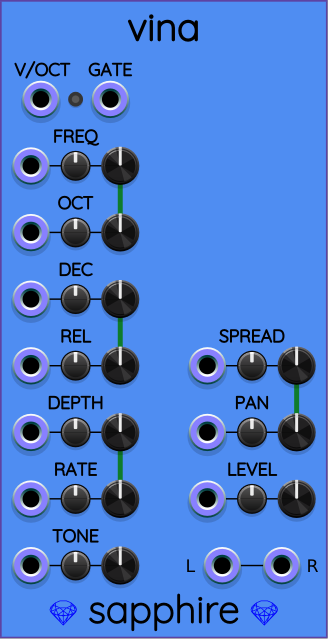
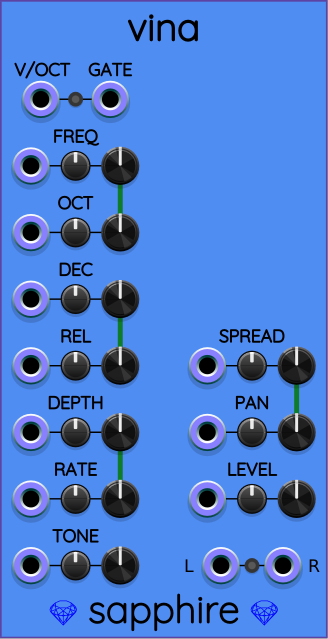
Vina: added button to toggle output LR mono/poly.

Changed region(s): [[0.6098, 0.8623, 0.9756, 0.9218], [0.5488, 0.8623, 0.5793, 0.892]]

diff --git a/src/vina_vcv.cpp b/src/vina_vcv.cpp
@@ -30,7 +30,7 @@ namespace Sapphire      // Indranīla (इन्द्रनील)
             SPREAD_ATTEN,
             TONE_PARAM,
             TONE_ATTEN,
-            _OBSOLETE_2_PARAM,
+            STEREO_BUTTON_PARAM,
             _OBSOLETE_3_PARAM,
             CHORUS_DEPTH_PARAM,
             CHORUS_DEPTH_ATTEN,
@@ -102,6 +102,12 @@ namespace Sapphire      // Indranīla (इन्द्रनील)
                     dwButton->setValue(1);
                 }
 
+                if (auto stereoButton = configButton(STEREO_BUTTON_PARAM))
+                {
+                    stereoButton->defaultValue = 1;
+                    stereoButton->setValue(1);
+                }
+
                 configParam(FREQ_PARAM, MinOctave, MaxOctave, 0, "Frequency", " Hz", 2, CenterFreqHz);
                 configAtten(FREQ_ATTEN, "Frequency");
                 configInput(FREQ_CV_INPUT, "Frequency CV");
@@ -169,8 +175,6 @@ namespace Sapphire      // Indranīla (इन्द्रनील)
                     channelInfo[c].activeWireIndex = c;
                     wire[c].assignedPolyChannel = c;
                 }
-
-                params[DYNAMIC_WIRE_BUTTON_PARAM].setValue(1);      // enable by default
             }
 
             json_t* dataToJson() override
@@ -189,6 +193,11 @@ namespace Sapphire      // Indranīla (इन्द्रनील)
                 return getParamQuantity(DYNAMIC_WIRE_BUTTON_PARAM)->getValue() > 0.5f;
             }
 
+            bool isPolyphonicStereoEnabled()
+            {
+                return getParamQuantity(STEREO_BUTTON_PARAM)->getValue() > 0.5f;
+            }
+
             bool needToPickNewWire(int c, bool trigger)
             {
                 // Do we have a currently assigned wire?
@@ -200,7 +209,7 @@ namespace Sapphire      // Indranīla (इन्द्रनील)
                 // Is the current wire still vibrating?
                 // If it is quiet, we can keep using it.
                 // Otherwise, we try to pick a different wire.
-                return isDynamicWireAssignmentEnabled() && trigger && !wire[wi].isQuiet();
+                return trigger && isDynamicWireAssignmentEnabled() && !wire[wi].isQuiet();
             }
 
             void makeChannelOwnWire(int c, int k)
@@ -257,8 +266,10 @@ namespace Sapphire      // Indranīla (इन्द्रनील)
             void process(const ProcessArgs& args) override
             {
                 numActiveChannels = numOutputChannels(INPUTS_LEN, 1);
-                outputs[AUDIO_LEFT_OUTPUT ].setChannels(numActiveChannels);
-                outputs[AUDIO_RIGHT_OUTPUT].setChannels(numActiveChannels);
+                const bool polyphonicOutput = isPolyphonicStereoEnabled();
+                const int numOutputChannels = polyphonicOutput ? numActiveChannels : 1;
+                outputs[AUDIO_LEFT_OUTPUT ].setChannels(numOutputChannels);
+                outputs[AUDIO_RIGHT_OUTPUT].setChannels(numOutputChannels);
                 float gateVoltage = 0;
                 float voctVoltage = 0;
                 float cvFreq = 0;
@@ -271,6 +282,8 @@ namespace Sapphire      // Indranīla (इन्द्रनील)
                 float cvTone = 0;
                 float cvChorusDepth = 0;
                 float cvChorusRate = 0;
+
+                VinaStereoFrame sum;
 
                 for (int c = 0; c < numActiveChannels; ++c)
                 {
@@ -327,8 +340,21 @@ namespace Sapphire      // Indranīla (इन्द्रनील)
                         w.setPitch(freq);     // must set pitch AFTER tone
 
                     VinaStereoFrame frame = updateWiresForChannel(c, args.sampleRate, gate, trigger);
-                    outputs[AUDIO_LEFT_OUTPUT ].setVoltage(frame.sample[0], c);
-                    outputs[AUDIO_RIGHT_OUTPUT].setVoltage(frame.sample[1], c);
+                    if (polyphonicOutput)
+                    {
+                        outputs[AUDIO_LEFT_OUTPUT ].setVoltage(frame.sample[0], c);
+                        outputs[AUDIO_RIGHT_OUTPUT].setVoltage(frame.sample[1], c);
+                    }
+                    else
+                    {
+                        sum += frame;
+                    }
+                }
+
+                if (!polyphonicOutput)
+                {
+                    outputs[AUDIO_LEFT_OUTPUT ].setVoltage(sum.sample[0], 0);
+                    outputs[AUDIO_RIGHT_OUTPUT].setVoltage(sum.sample[1], 0);
                 }
             }
         };
@@ -344,6 +370,16 @@ namespace Sapphire      // Indranīla (इन्द्रनील)
         };
 
 
+        struct StereoButton : SapphireTinyToggleButton
+        {
+            explicit StereoButton()
+            {
+                addFrame(Svg::load(asset::plugin(pluginInstance, "res/interval_button_0.svg")));
+                addFrame(Svg::load(asset::plugin(pluginInstance, "res/interval_button_1.svg")));
+            }
+        };
+
+
         struct VinaWidget : SapphireWidget
         {
             VinaModule* vinaModule{};
@@ -354,6 +390,7 @@ namespace Sapphire      // Indranīla (इन्द्रनील)
             {
                 setModule(module);
                 addDynamicWireButton();
+                addStereoButton();
                 addSapphireInput(GATE_INPUT, "gate_input");
                 addSapphireInput(VOCT_INPUT, "voct_input");
                 addSapphireOutput(AUDIO_LEFT_OUTPUT,  "audio_left_output");
@@ -374,6 +411,12 @@ namespace Sapphire      // Indranīla (इन्द्रनील)
             {
                 auto button = createParamCentered<DynamicWireButton>(Vec{}, vinaModule, DYNAMIC_WIRE_BUTTON_PARAM);
                 addSapphireParam(button, "dynamic_wire_button");
+            }
+
+            void addStereoButton()
+            {
+                auto button = createParamCentered<StereoButton>(Vec{}, vinaModule, STEREO_BUTTON_PARAM);
+                addSapphireParam(button, "stereo_button");
             }
 
             void appendContextMenu(Menu* menu) override
@@ -397,6 +440,12 @@ namespace Sapphire      // Indranīla (इन्द्रनील)
                         DYNAMIC_WIRE_BUTTON_PARAM,
                         "Single decaying note per channel (less CPU)",
                         "Multiple decaying notes per channel (more CPU)"
+                    );
+
+                    vinaModule->updateToggleButtonTooltip(
+                        STEREO_BUTTON_PARAM,
+                        "Monophonic output on L and R ports (unity mix)",
+                        "Polyphonic output on L and R ports"
                     );
                 }
             }

diff --git a/util/make_sapphire_svg.py b/util/make_sapphire_svg.py
@@ -2431,7 +2431,7 @@ def GenerateVinaPanel(cdict: ControlDict, name:str, slug:str, target:Target) -> 
         xmidRight = HP_WIDTH_MM*(leftWidthHp + middleHp + rightWidthHp/2)
         yFence = FencePost(20.0, 114.0, 8)
 
-        dxPortFromCenter = 6.0
+        dxPortFromCenter = 6.25
         dxVoctGate = 7.0
         dyArtwork = 10.0
         dxLabelFromCenter = dxPortFromCenter + dxHorizontalStereoLabels
@@ -2457,10 +2457,12 @@ def GenerateVinaPanel(cdict: ControlDict, name:str, slug:str, target:Target) -> 
             defs.append(Gradient(yVoctGate-dyArtwork, yVoctGate+dyArtwork, SAPPHIRE_MAGENTA_COLOR, SAPPHIRE_PANEL_COLOR, 'gradient_voct_gate'))
             pl.append(ControlGroupArt(name, 'voct_gate_art', panel, yVoctGate-dyArtwork, yVoctGate+dyArtwork, 'gradient_voct_gate'))
 
+
+        pl.append(HorizontalLinePath(xmidLeft - dxVoctGate, xmidLeft + dxVoctGate, yVoctGate))
+        controls.append(Component('dynamic_wire_button', xmidLeft, yVoctGate))
+
         controls.append(Component('voct_input', xmidLeft - dxVoctGate, yVoctGate))
         pl.append(CenteredControlTextPath(font, 'V/OCT', xmidLeft - dxVoctGate, yVoctGate - dyButtonText))
-
-        controls.append(Component('dynamic_wire_button', xmidLeft, yVoctGate))
 
         controls.append(Component('gate_input', xmidLeft + dxVoctGate, yVoctGate))
         pl.append(CenteredControlTextPath(font, 'GATE',  xmidLeft + dxVoctGate, yVoctGate - dyButtonText))
@@ -2510,6 +2512,7 @@ def GenerateVinaPanel(cdict: ControlDict, name:str, slug:str, target:Target) -> 
             defs.append(Gradient(y1, y2, SAPPHIRE_EGGPLANT_COLOR, SAPPHIRE_PANEL_COLOR, 'gradient_out'))
             pl.append(ControlGroupArt(name, 'out_art', panel, y1, y2, 'gradient_out'))
 
+        controls.append(Component('stereo_button',      xmidRight, yAudioOutputs))
         controls.append(Component('audio_left_output',  xmidRight - dxPortFromCenter, yAudioOutputs))
         controls.append(Component('audio_right_output', xmidRight + dxPortFromCenter, yAudioOutputs))
         controls.append(Component('left_output_label',  xmidRight - dxLabelFromCenter, yAudioOutputs))

diff --git a/src/sapphire_panel.cpp b/src/sapphire_panel.cpp
@@ -495,8 +495,8 @@ namespace Sapphire
             }},
         { "vina", {
             {"_panel",                 {  66.040,  128.500}},
-            {"audio_left_output",      {  44.800,  114.000}},
-            {"audio_right_output",     {  56.800,  114.000}},
+            {"audio_left_output",      {  44.550,  114.000}},
+            {"audio_right_output",     {  57.050,  114.000}},
             {"chorus_depth_atten",     {  15.240,   87.143}},
             {"chorus_depth_cv",        {   6.240,   87.143}},
             {"chorus_depth_knob",      {  24.240,   87.143}},
@@ -511,7 +511,7 @@ namespace Sapphire
             {"freq_cv",                {   6.240,   33.429}},
             {"freq_knob",              {  24.240,   33.429}},
             {"gate_input",             {  22.240,   20.000}},
-            {"left_output_label",      {  38.500,  114.000}},
+            {"left_output_label",      {  38.250,  114.000}},
             {"level_atten",            {  50.800,  100.571}},
             {"level_cv",               {  41.800,  100.571}},
             {"level_knob",             {  59.800,  100.571}},
@@ -524,10 +524,11 @@ namespace Sapphire
             {"release_atten",          {  15.240,   73.714}},
             {"release_cv",             {   6.240,   73.714}},
             {"release_knob",           {  24.240,   73.714}},
-            {"right_output_label",     {  63.100,  114.000}},
+            {"right_output_label",     {  63.350,  114.000}},
             {"spread_atten",           {  50.800,   73.714}},
             {"spread_cv",              {  41.800,   73.714}},
             {"spread_knob",            {  59.800,   73.714}},
+            {"stereo_button",          {  50.800,  114.000}},
             {"tone_atten",             {  15.240,  114.000}},
             {"tone_cv",                {   6.240,  114.000}},
             {"tone_knob",              {  24.240,  114.000}},
